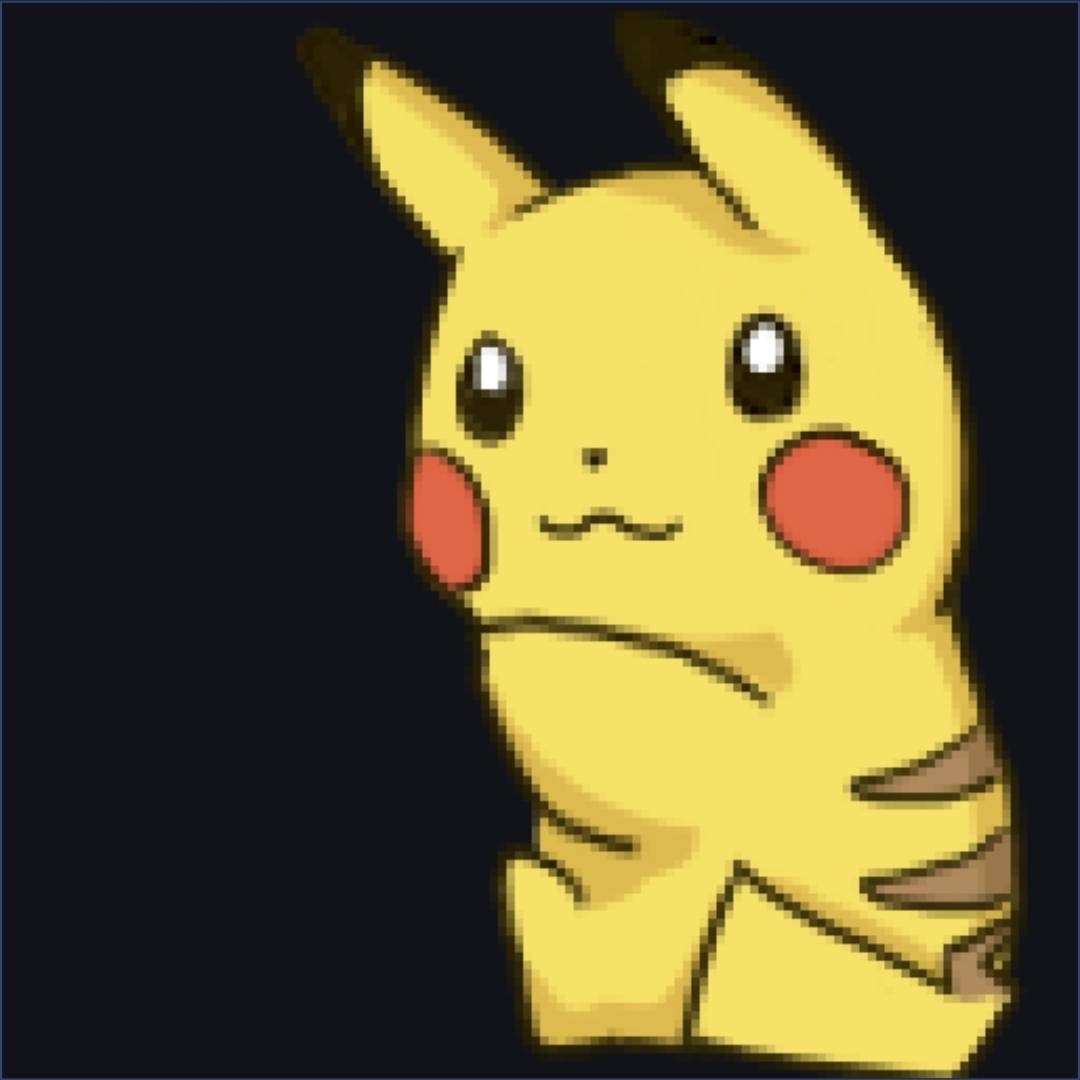
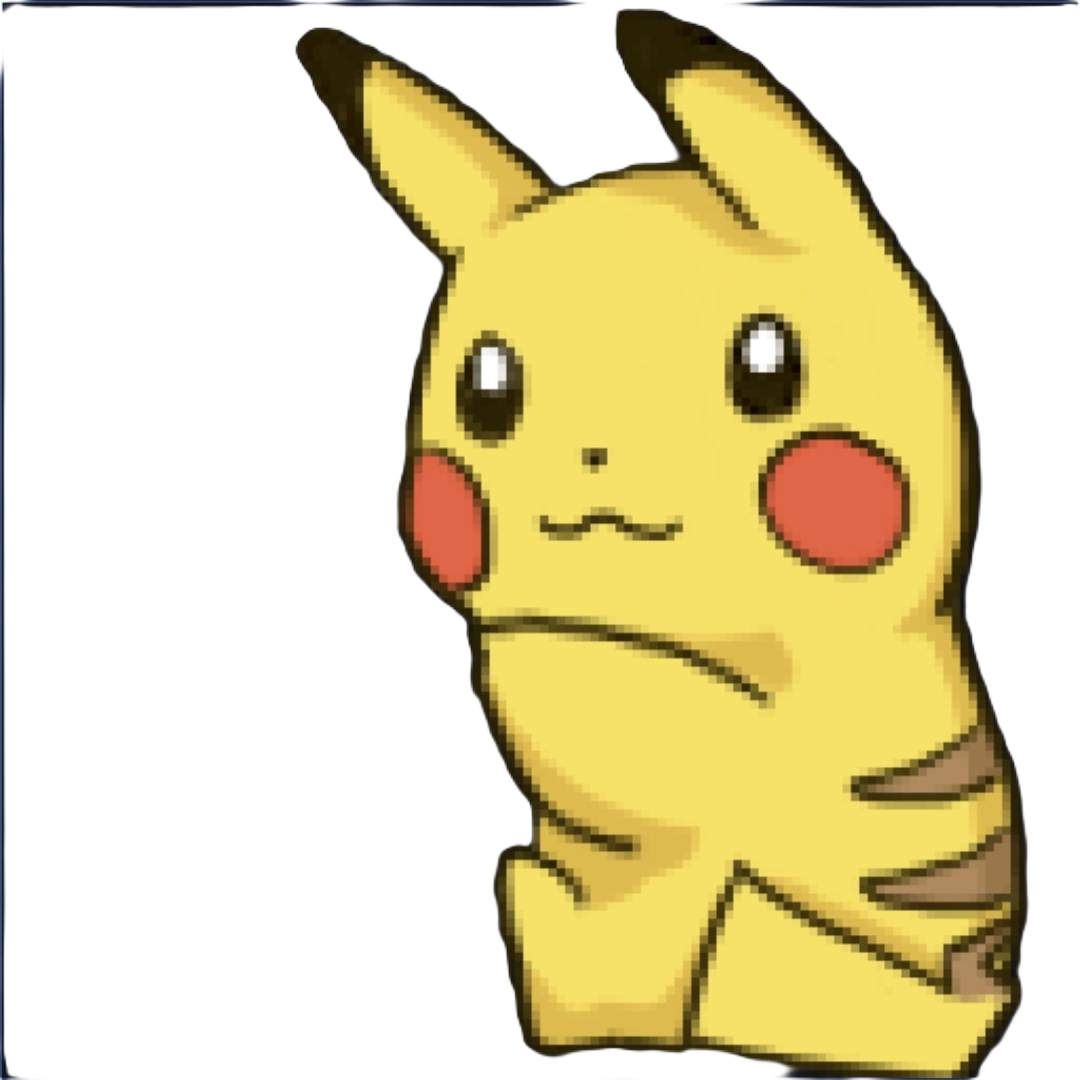
把圖片背景透明化和「PetController」新增左右走和上下爬和左右懸掛動作

diff --git a/src/pet/PetController.java b/src/pet/PetController.java
@@ -38,28 +38,43 @@ public class PetController {
 				
 				switch (petStage) {
 					case LEFT_WALK:
-						action(petPictureNumber.walk, "walk", -2, 0, 200); // 呼叫 petWalk 方法
+						action(petPictureNumber.walk, "walk", -2, 0, 200, 1); // 呼叫 petWalk 方法
+						break;
+					case RIGHT_WALK:
+						action(petPictureNumber.walk, "walk", 2, 0, 200, -1); // 呼叫 petWalk 方法
 						break;
 					case LEFT_CLIMB_UP:
-						action(petPictureNumber.climb, "climb", 0, -2, 200); // 呼叫 petClimb 方法
+						action(petPictureNumber.climb, "climb", 0, -2, 200, 1); // 呼叫 petClimb 方法
 						break;
-					case SUSPENSION:
-						action(petPictureNumber.suspension, "suspension", 2, 0, 200); // 呼叫 petSuspension 方法
+					case LEFT_CLIMB_DOWN:
+						action(petPictureNumber.climb, "climb", 0, 2, 200, 1); // 呼叫 petClimb 方法
+						break;
+					case RIGHT_CLIMB_UP:
+						action(petPictureNumber.climb, "climb", 0, -2, 200, -1); // 呼叫 petClimb 方法
+						break;
+					case RIGHT_CLIMB_DOWN:
+						action(petPictureNumber.climb, "climb", 0, 2, 200, -1); // 呼叫 petClimb 方法
+						break;
+					case LEFT_SUSPENSION:
+						action(petPictureNumber.suspension, "suspension", -2, 0, 200, -1); // 呼叫 petSuspension 方法
+						break;
+					case RIGHT_SUSPENSION:
+						action(petPictureNumber.suspension, "suspension", 2, 0, 200, 1); // 呼叫 petSuspension 方法
 						break;
 					case FALL:
-						action(petPictureNumber.fall, "fall", 0, 2, 200); // 呼叫 petFall 方法
+						action(petPictureNumber.fall, "fall", 0, 2, 200, 1); // 呼叫 petFall 方法
 						break;
 					case STUMBLE:
-						action(petPictureNumber.stumble, "stumble", 0, 0, 200); // 呼叫 petStumble 方法
+						action(petPictureNumber.stumble, "stumble", 0, 0, 200, 1); // 呼叫 petStumble 方法
 						break;
 					case SIT:
-						action(petPictureNumber.sit, "sit", 0, 0, 200); // 呼叫 petSit 方法
+						action(petPictureNumber.sit, "sit", 0, 0, 200, 1); // 呼叫 petSit 方法
 						break;
 					case DRAG:
-						action(petPictureNumber.drag, "drag", 0, 0, 200); // 呼叫 petDrag 方法
+						action(petPictureNumber.drag, "drag", 0, 0, 200, 1); // 呼叫 petDrag 方法
 						break;
 					case IDLE:
-						action(petPictureNumber.idle, "idle", 0, 0, 700); // 呼叫 petIdle 方法
+						action(petPictureNumber.idle, "idle", 0, 0, 700, 1); // 呼叫 petIdle 方法
 						break;
 				}
 			}
@@ -75,7 +90,7 @@ public class PetController {
 	}
 
 	// x, y 參數用於調整寵物視窗位置, millis 參數用於設定每一幀的時間間隔
-	private void action(int pictureNum, String state, int x, int y, int millis) {
+	private void action(int pictureNum, String state, int x, int y, int millis, int reverse) {
 	    // 建立 Timeline 動畫
 		Timeline timeline = new Timeline();
 	    for (int i = 0; i < pictureNum; i++) {
@@ -86,6 +101,7 @@ public class PetController {
 	                petImage.setImage(new Image(
 	                    PetController.class.getResource("/image/" + petName + "/" + state + "/" + frameIndex + ".png").toExternalForm()
 	                ));
+	                petImage.setScaleX(reverse); // 反轉圖片
 	                petWindow.setX(petWindow.getX() + x);
 	                petWindow.setY(petWindow.getY() + y); // 更新寵物視窗位置
 	            }
